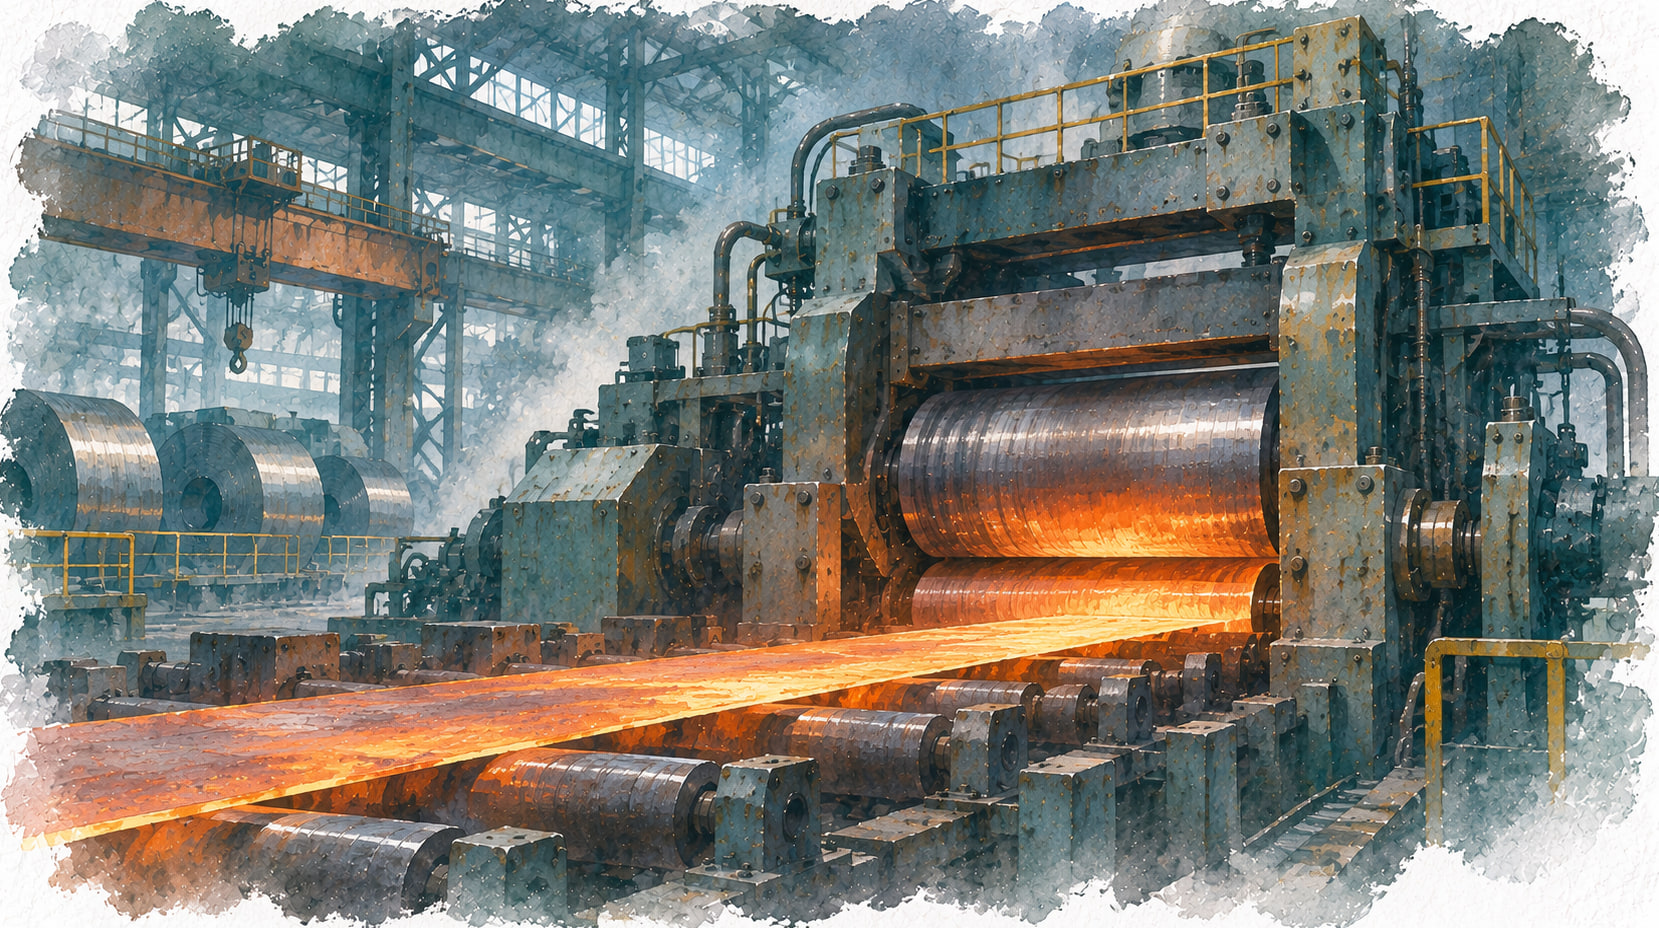
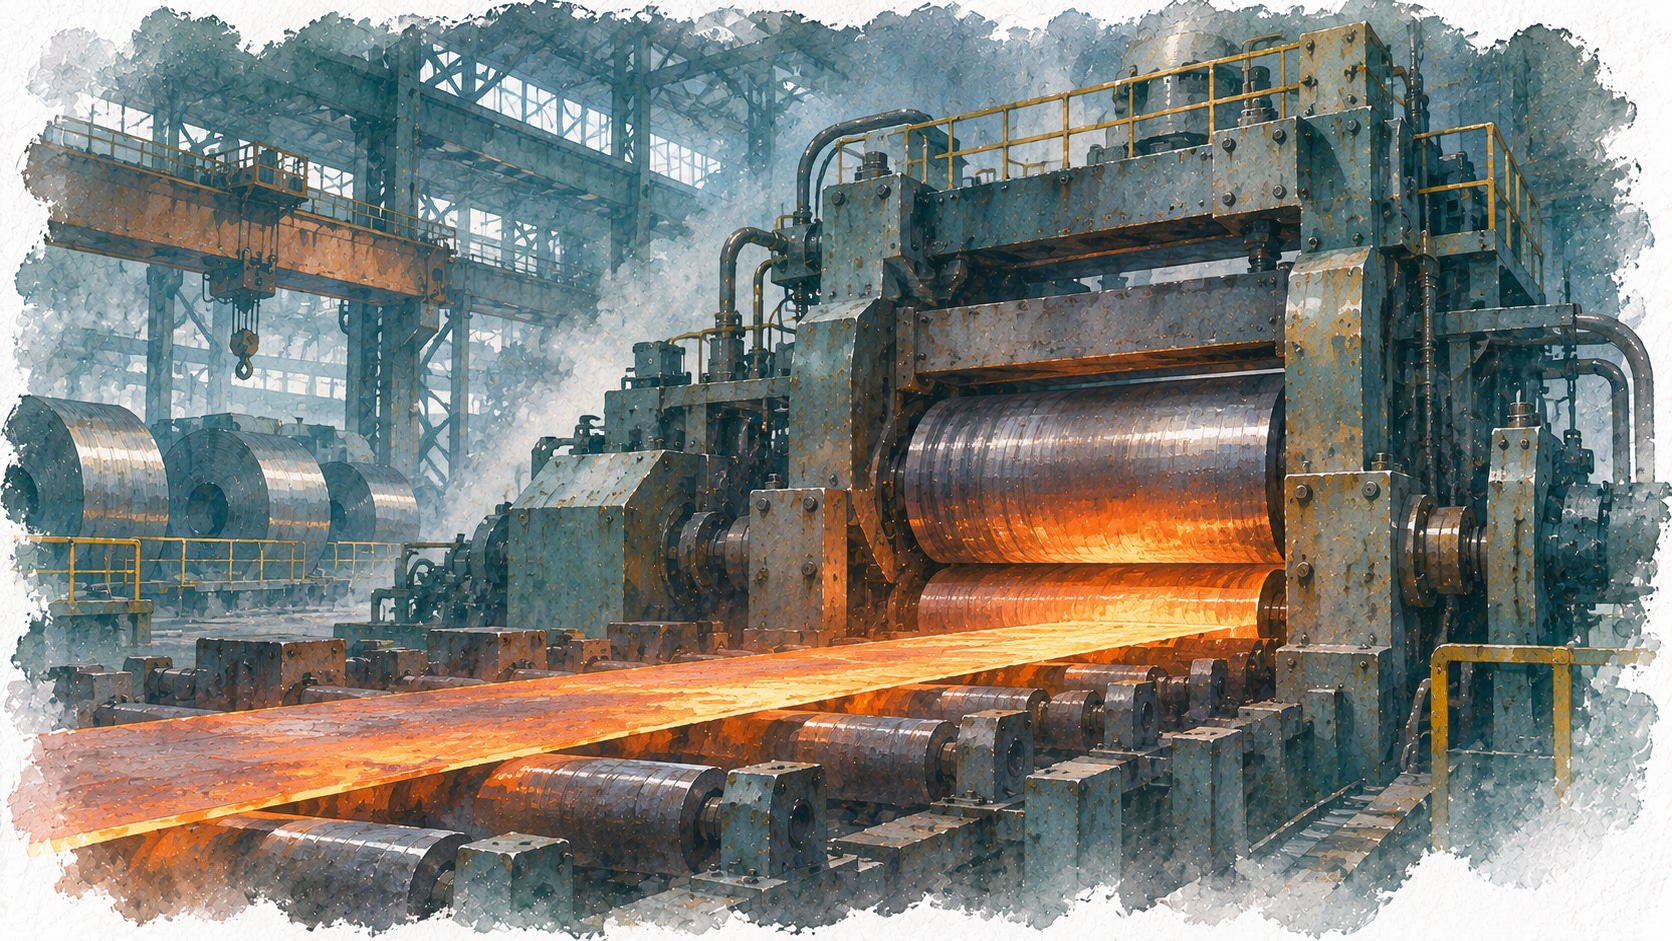
Show the full paintings and pad every problem column.
The scenes were zoomed to fill the viewport, which cropped the art and softened it. Each painting now keeps its own frame at the original file size. The surcharge column has the same 24px inset as the others, and the customer-result warning is gone.

diff --git a/src/app/page.tsx b/src/app/page.tsx
@@ -1,5 +1,4 @@
 import type { Metadata } from "next";
-import Image from "next/image";
 import Header from "@/components/Header";
 import Footer from "@/components/Footer";
 import ExampleRecord from "@/components/ExampleRecord";
@@ -81,14 +80,19 @@ function SceneImage({
 }) {
   return (
     <div className="scene-motion">
-      <Image
+      {/* The file is already the full painting. Skipping the image optimizer avoids a smaller derivative. */}
+      {/* eslint-disable-next-line @next/next/no-img-element */}
+      <img
         className="scene-bg"
         src={src}
         alt=""
-        fill
-        sizes="100vw"
-        priority={priority}
-        aria-hidden
+        width={1672}
+        height={941}
+        decoding="async"
+        aria-hidden="true"
+        {...(priority
+          ? { fetchPriority: "high" as const }
+          : { loading: "lazy" as const })}
       />
     </div>
   );
@@ -108,7 +112,8 @@ export default function HomePage() {
         >
           <SceneImage src="/scenes/foundry.jpg" priority />
           <div className="scene-scrim" aria-hidden="true" />
-          <div className="container scene-copy">
+          <div className="container">
+            <div className="scene-copy">
             <p className="kicker">Kordran / Industrial cost intelligence</p>
             <h1 id="hero-heading" className="display">
               Supplier costs.
@@ -131,6 +136,7 @@ export default function HomePage() {
               <a href="#approach" className="text-action">
                 How we work
               </a>
+            </div>
             </div>
           </div>
         </section>
@@ -171,7 +177,8 @@ export default function HomePage() {
         >
           <SceneImage src="/scenes/shop.jpg" />
           <div className="scene-scrim scene-scrim-right" aria-hidden="true" />
-          <div className="container scene-copy scene-copy-end">
+          <div className="container">
+          <Reveal className="scene-copy scene-copy-end">
             <p className="kicker">Scale</p>
             <h2 id="complexity-heading" className="heading">
               Complex operations. Complex costs.
@@ -180,6 +187,7 @@ export default function HomePage() {
               Across suppliers, contracts, and purchasing systems, small
               inconsistencies can become meaningful financial exposure.
             </p>
+          </Reveal>
           </div>
         </section>
 
@@ -207,17 +215,13 @@ export default function HomePage() {
               </ExampleSeen>
             </Reveal>
             <Reveal delay={180}>
-            <div className="example-note">
-              <p>
-                Illustrative example. Potential exposure before contractual
-                validation—not a confirmed recovery.
-              </p>
-              <p>
-                Kordran reviews the relevant agreement, validates eligible
-                transactions, and works toward an authorized commercial
-                correction.
-              </p>
-            </div>
+              <div className="example-note">
+                <p>
+                  Kordran reviews the relevant agreement, validates eligible
+                  transactions, and works toward an authorized commercial
+                  correction.
+                </p>
+              </div>
             </Reveal>
           </div>
         </section>
@@ -256,7 +260,8 @@ export default function HomePage() {
         >
           <SceneImage src="/scenes/mill.jpg" />
           <div className="scene-scrim" aria-hidden="true" />
-          <div className="container scene-copy">
+          <div className="container">
+          <Reveal className="scene-copy">
             <p className="kicker">Execution</p>
             <h2 id="execute-heading" className="heading">
               We don&apos;t stop at the finding.
@@ -266,6 +271,7 @@ export default function HomePage() {
               secure supported corrections, and prevent recurrence.
             </p>
             <p className="scene-note">Intelligence meets execution.</p>
+          </Reveal>
           </div>
         </section>
 
@@ -311,16 +317,18 @@ export default function HomePage() {
         >
           <SceneImage src="/scenes/works.jpg" />
           <div className="scene-scrim scene-scrim-close" aria-hidden="true" />
-          <div className="container scene-close-statement">
-            <h2 id="close-heading" className="display close-display">
-              Find the cost.
-              <br />
-              Recover the value.
-              <br />
-              Fix the system.
-            </h2>
+          <div className="scene-close-stack">
+            <Reveal className="container scene-close-statement">
+              <h2 id="close-heading" className="display close-display">
+                Find the cost.
+                <br />
+                Recover the value.
+                <br />
+                Fix the system.
+              </h2>
+            </Reveal>
+            <Footer overlay />
           </div>
-          <Footer overlay />
         </section>
       </main>
     </>

diff --git a/src/app/globals.css b/src/app/globals.css
@@ -1057,11 +1057,10 @@ select {
   .issues-board li:last-child {
     border-top: none;
     border-bottom: none;
-    padding: 22px 28px 0 0;
+    padding: 24px;
   }
 
   .issues-board li + li {
-    padding-left: 28px;
     border-left: 1px solid var(--line);
   }
 
@@ -1167,15 +1166,25 @@ select {
   color: #ffffff;
 }
 
+.scene {
+  display: grid;
+}
+
 .scene-motion {
-  position: absolute;
-  inset: -6%;
+  position: relative;
+  grid-area: 1 / 1;
   z-index: 0;
+  width: 100%;
+  min-width: 0;
+  max-width: 100%;
+  background: #141c22;
 }
 
 .scene-bg {
-  object-fit: cover;
-  object-position: center center;
+  width: 100%;
+  max-width: 100%;
+  height: auto;
+  display: block;
 }
 
 .site-header {
@@ -1218,27 +1227,39 @@ select {
     linear-gradient(180deg, rgba(8, 14, 20, 0.55) 0%, rgba(8, 14, 20, 0.62) 42%, rgba(8, 14, 20, 0.86) 100%);
 }
 
-.scene-hero {
-  display: flex;
-  align-items: center;
-  min-height: 100svh;
-  padding: calc(var(--header-h) + 28px) 0 56px;
-}
-
+.scene-hero,
 .scene-complexity,
-.scene-execute {
-  display: flex;
-  align-items: center;
-  min-height: 82svh;
-  padding: calc(var(--header-h) + 24px) 0 48px;
+.scene-execute,
+.scene-close {
+  display: grid;
+  min-height: 0;
+  padding: 0;
 }
 
-.scene-close {
+.scene > .container,
+.scene-close-stack {
+  grid-area: 1 / 1;
+  z-index: 2;
+  align-self: center;
+  padding-block: 72px;
+}
+
+.scene-close-stack {
+  align-self: stretch;
   display: flex;
   flex-direction: column;
-  justify-content: flex-end;
-  min-height: 90svh;
-  padding-top: calc(var(--header-h) + 48px);
+  justify-content: space-between;
+  min-height: 100%;
+  padding-block: 0;
+}
+
+.scene-close-statement {
+  display: flex;
+  flex: 1;
+  align-items: center;
+  justify-content: center;
+  padding-block: 72px 24px;
+  text-align: center;
 }
 
 .scene-copy-end {
@@ -1465,7 +1486,7 @@ select {
 @media (prefers-reduced-motion: no-preference) {
   .reveal[data-ready="true"]:not(.is-in) {
     opacity: 0;
-    transform: translateY(16px);
+    transform: translateY(22px);
   }
 
   .reveal.is-in {
@@ -1484,7 +1505,7 @@ select {
 
   .reveal-stagger[data-ready="true"]:not(.is-in) > * {
     opacity: 0;
-    transform: translateY(16px);
+    transform: translateY(22px);
   }
 
   .reveal-stagger.is-in > * {
@@ -1507,23 +1528,6 @@ select {
     transition-delay: 200ms;
   }
 
-  .scene-hero .scene-motion {
-    animation: scene-drift-hero linear both;
-    animation-timeline: view();
-    animation-range: cover 0% cover 100%;
-  }
-
-  .scene-complexity .scene-motion {
-    animation: scene-drift-pan linear both;
-    animation-timeline: view();
-    animation-range: cover 0% cover 100%;
-  }
-
-  .scene-execute .scene-motion {
-    animation: scene-drift-settle linear both;
-    animation-timeline: view();
-    animation-range: cover 0% cover 100%;
-  }
 }
 
 @keyframes scene-drift-hero {

diff --git a/src/lib/example.ts b/src/lib/example.ts
@@ -8,8 +8,7 @@ export const example = {
   units: 18_000,
 } as const;
 
-export const illustrativeLabel =
-  "Illustrative example — not a customer result";
+export const illustrativeLabel = "Illustrative example";
 
 export const unitDelta = example.billedUnit - example.agreedUnit;
 export const potentialDiscrepancy = example.units * unitDelta;
